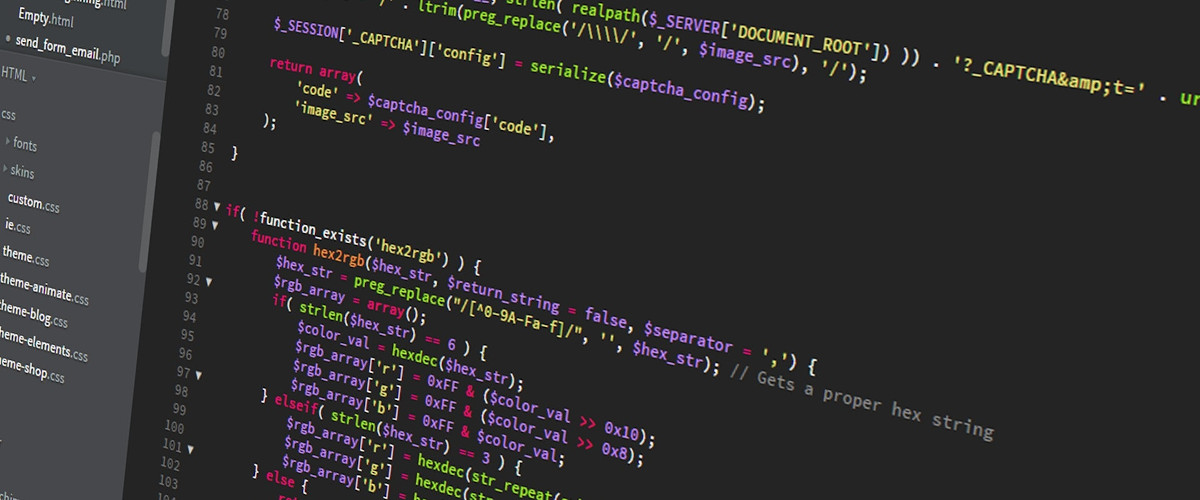
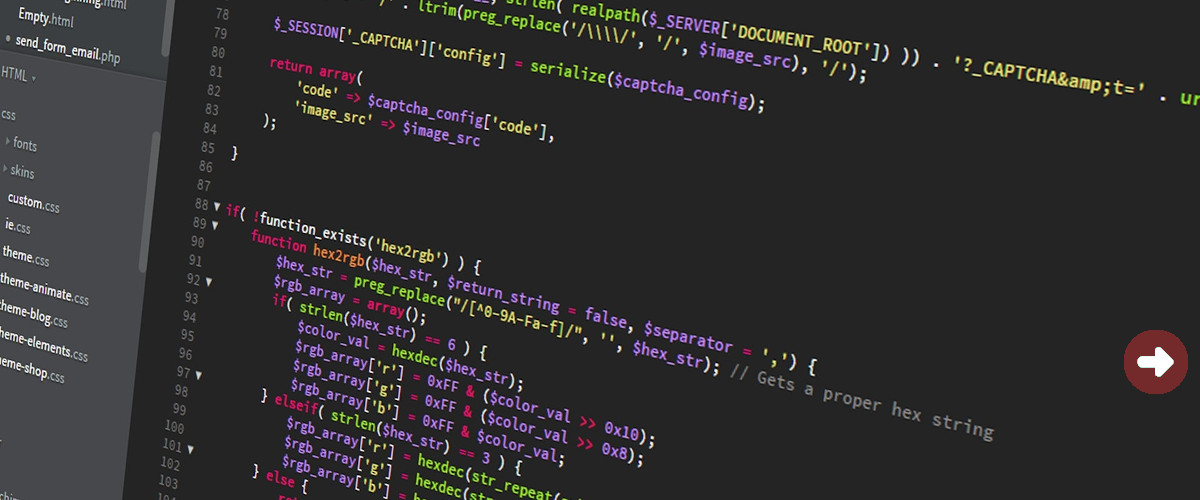
Add a hero image animation

Changed region(s): [[0.925, 0.66, 1.0, 0.81]]

diff --git a/src/components/HomeHero.js b/src/components/HomeHero.js
@@ -1,8 +1,10 @@
-import React from "react"
+import React, { useState, useCallback } from "react"
 import { Link } from "gatsby"
 import { useStaticQuery, graphql } from "gatsby"
+import { useTransition, animated } from 'react-spring'
 import Img from "gatsby-image"
 import myPic from "../images/me1.png"
+import slide2 from "../images/hero-slide2.png"
 
 const Arrow = () => (
   <svg
@@ -39,23 +41,42 @@ const HeroImage = () => {
   )
 }
 
+const pages = [
+  ({ style }) => <animated.div style={{ ...style,  }}><HeroImage /></animated.div>,
+  ({ style }) => <animated.div style={{ ...style, background: 'lightblue' }}>
+    <img src={slide2} alt="technologies I used on this site" />
+  </animated.div>,
+]
+
 const HomeHero = () => {
+  const [index, set] = useState(0)
+  const onClick = useCallback(() => set(state => (state + 1) % pages.length), [])
+  const transitions = useTransition(index, p => p, {
+    from: { opacity: .5, transform: 'translate3d(100%,0,0)' },
+    enter: { opacity: 1, transform: 'translate3d(0%,0,0)' },
+    leave: { opacity: 0, transform: 'translate3d(-50%,0,0)' },
+  })
+
   return (
     <section className="container flex flex-col px-5 py-12 mx-auto">
       <div className="mx-auto lg:w-4/6">
-        <div className="h-64 overflow-hidden rounded-lg">
-          <HeroImage />
+        <div className="h-64 overflow-hidden rounded-lg cursor-pointer" onClick={onClick}>
+          {transitions.map(({ item, props, key }) => {
+            const Page = pages[item]
+            return <Page key={key} style={props} />
+          })}
         </div>
         <div className="flex flex-col mt-10 sm:flex-row">
           <div className="text-center sm:w-1/3 sm:pr-8 sm:py-8">
-            <div className="w-20 h-20" style={{margin:'0 auto'}}>
-              <img src={myPic} alt="afshin mokhtari" className="rounded-full"/>
+            <div className="w-20 h-20" style={{ margin: "0 auto" }}>
+              <img src={myPic} alt="afshin mokhtari" className="rounded-full" />
             </div>
             <div className="flex flex-col items-center justify-center text-center">
-              <h2 className="mt-4 text-lg font-medium "
-                              style={{
-                                color: "var(--txt)",
-                              }}
+              <h2
+                className="mt-4 text-lg font-medium "
+                style={{
+                  color: "var(--txt)",
+                }}
               >
                 Afshin Mokhtari
               </h2>
@@ -79,21 +100,21 @@ const HomeHero = () => {
           </div>
           <div className="pt-4 mt-4 text-center border-t border-gray-300 sm:w-2/3 sm:pl-8 sm:py-8 sm:border-l sm:border-t-0 sm:mt-0 sm:text-left">
             <p className="mb-4 text-lg leading-relaxed">
-              Its <em className="text-yellow-100">September 2020</em> and it has been more than a year since my
-              old WordPress website went down.  It took  
-              this <strong>GatsbyJS</strong> static
-              site generation with React under the hood thing
-              to get me excited enough to do something about it.  So let's
-              see what kind of fun stuff I can pull together...
+              Its <em className="text-yellow-100">September 2020</em> and it has
+              been more than a year since my old WordPress website went down. It
+              took this <strong>GatsbyJS</strong> static site generation with
+              React under the hood thing to get me excited enough to do
+              something about it. So let's see what kind of fun stuff I can pull
+              together...
             </p>
             <p className="mb-4 text-xl text-yellow-100">
-              This site is a one pager for now, but in coming days and weeks I plan to implement
-              a blog and more...
+              This site is a one pager for now, but in coming days and weeks I
+              plan to implement a blog and more...
             </p>
             <p className="mb-4 text-lg">
-              By the way, I'd also like to mention I play drums, practice Tai Chi, and poke people 
-              with acupuncture needles for their own benefit and harmony.  
-              Its an interesting life.
+              By the way, I'd also like to mention I play drums, practice Tai
+              Chi, and poke people with acupuncture needles for their own
+              benefit and harmony. Its an interesting life.
             </p>
             <Link
               to="/about"
